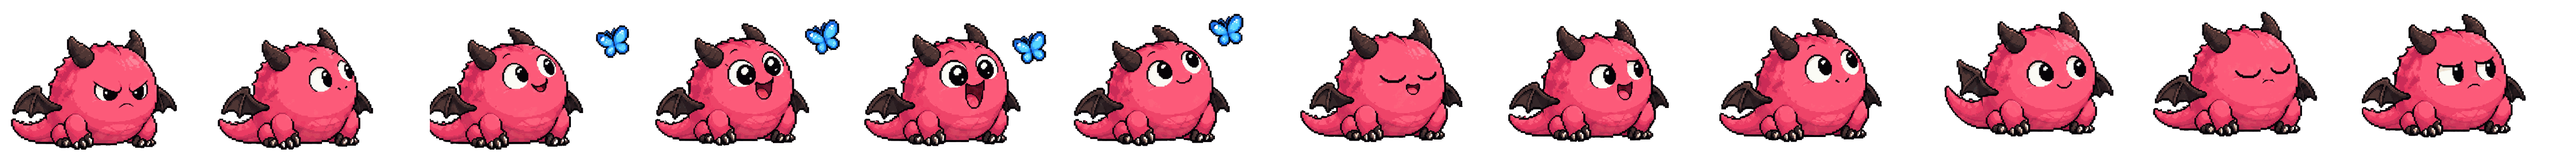
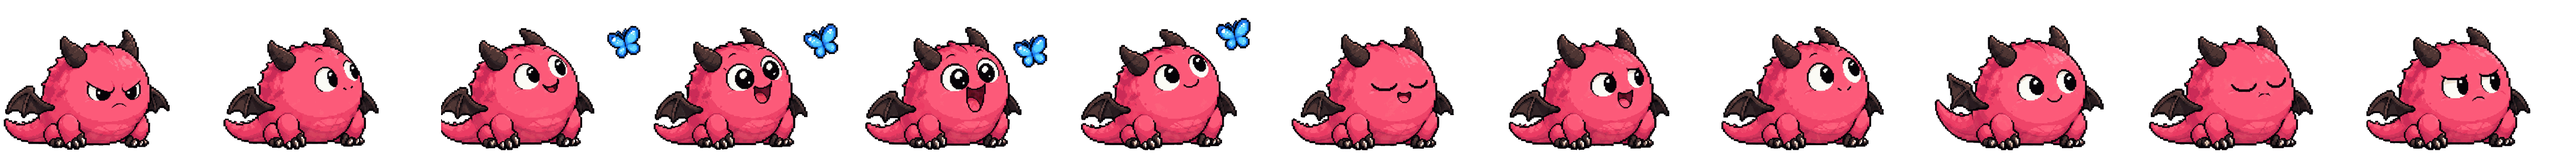
Pin the baby idle to one spot and match the Blazewyrm's pace
Two faults, and the jumping was mine. I cropped this pack's cells raw, and
the source draws the dragon in a different place in each one: its feet wander
27 pixels and its body 41 across the twelve, nearly a tenth of the cell. The
Blazewyrm's sheet, which I anchored when I built it, wanders three.

So anchor this one the same way - every frame shifted so the feet land on one
row and the body on one column. Feet wander is now zero, body 0.9 pixels,
tighter than the Blazewyrm's. Anchoring reads the dragon rather than every
opaque pixel, because the butterfly is supposed to move. No padding was
needed, so the cell geometry is unchanged and the two Cinderling clips still
measure 1.007 and 0.999 against it.

On speed: 2 fps, exactly the Blazewyrm's half-second a frame, rather than
inventing a middle value. Both idles now report a 6s loop at 500ms a frame.

Watched live across a full loop rather than trusting the numbers: the ground
line does not move a pixel, and the 3.5 CSS px the body centre shifts is the
wings and tail changing pose, not the sprite sliding.

Claude-Session: https://claude.ai/code/session_01YRzrKPfiP3SQKKej9Vjk7N

Changed region(s): [[0.0, 0.0938, 0.9968, 0.9375]]

diff --git a/index.html b/index.html
@@ -2310,9 +2310,10 @@ const DEFAULT_SPRITES = {
     // original is kept beside it: point src at ember-cinderling-original.png
     // (aspect 1.447, fps 2, scale 1.2, no dx/dy) to go back to it.
     src:"art/ember-cinderling.png",
-    // 400ms a frame rather than the pack's 140: an idle is looked at for
-    // minutes at a time, so it wants to breathe, not bustle
-    frames:12, rows:1, fps:2.5, aspect:1.3125, scale:1.18, dx:-3, dy:-1
+    // 2 fps, the same half-second a frame the Blazewyrm's idle runs at. the
+    // pack suggests 140ms, which suits a preview watched once rather than a
+    // pet sitting on screen for minutes.
+    frames:12, rows:1, fps:2, aspect:1.3125, scale:1.18, dx:-3, dy:-5
   },
   "ember:2": {
     src:"art/ember-blazewyrm.png",
@@ -2335,7 +2336,7 @@ function spriteConfig(species, stage){
    already has one will happily go on showing the old drawing. Bump this and
    every cache along the way fetches the new file. Only the sheets that ship
    with the app are stamped; a sheet you point at yourself is used verbatim. */
-const ART_VERSION = "6";
+const ART_VERSION = "7";
 function assetURL(src){
   return /^art\//.test(src) ? src + "?v=" + ART_VERSION : src;
 }

diff --git a/demo.html b/demo.html
@@ -22,7 +22,7 @@
   p{color:#8791a8;font-size:14px;line-height:1.65;margin:14px 0 0}
   .pet{
     width:191px;height:132px;margin:24px auto 4px;display:block;
-    background-image:url("art/ember-cinderling.png?v=6");
+    background-image:url("art/ember-cinderling.png?v=7");
     background-size:2292px 132px;          /* 12 frames of 191px */
     background-position:-573px 0;          /* frame 4 */
     background-repeat:no-repeat;

diff --git a/README.md b/README.md
@@ -79,7 +79,13 @@ animation follow how recently you ran: elated the day you run, happy the day
 after, restless at two days, sad at three, and asleep from five.
 
 The Cinderling's idle is the fuzzy baby that matches its skill and
-celebration packs. The smoother original it replaced is kept beside it at
+celebration packs. Its frames are anchored before packing — each shifted so
+the dragon's feet land on one row and its body on one column — because the
+source cells draw it in a different spot each frame and a pet that wanders
+inside its own box looks like it is hopping about. Anchor on the dragon, not
+on everything opaque: the butterfly is meant to move.
+
+ The smoother original it replaced is kept beside it at
 `art/ember-cinderling-original.png` — point the `ember:1` src back at that
 file, with `aspect:1.447, fps:2, scale:1.2` and no `dx`/`dy`, to return to it.
 
